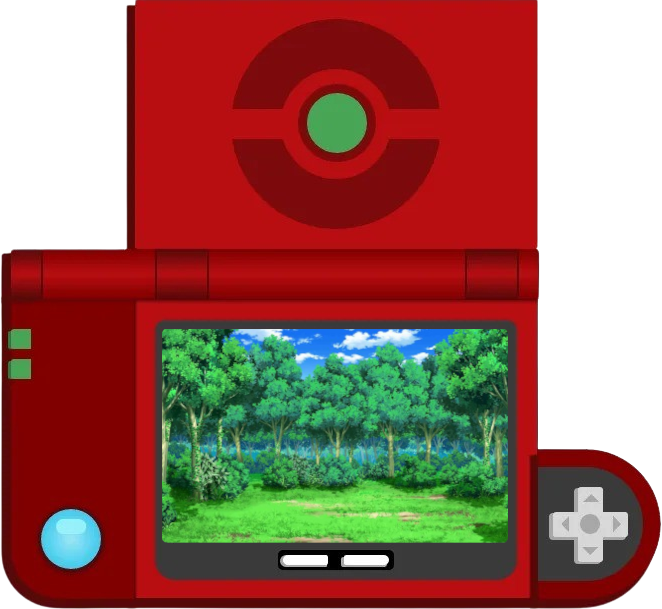
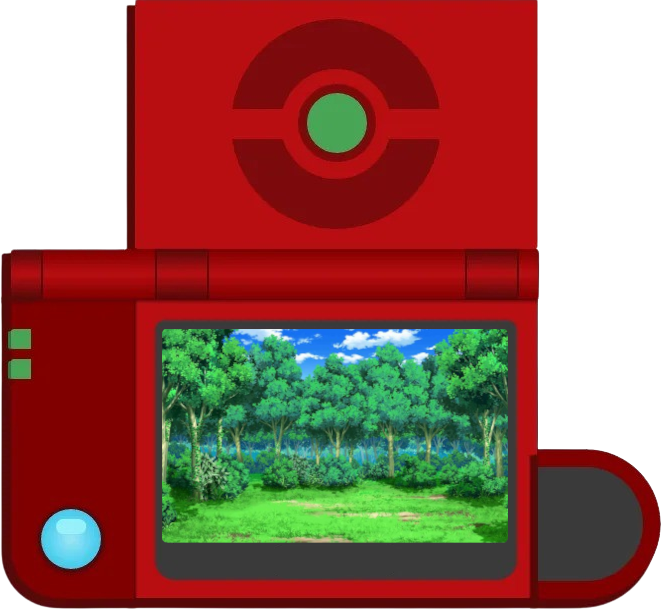
Alterando imagem da dex

Changed region(s): [[0.8157, 0.78, 0.9668, 0.936], [0.423, 0.9048, 0.6042, 0.936]]

diff --git a/pokemonDetalhes.html b/pokemonDetalhes.html
@@ -44,7 +44,7 @@
 
     <div class="container d-flex justify-content-center align-items-center">
 
-        <img class="poke-imagem poke__size img-fluid d-none d-md-block d-sm-none" src="./assets/img/pokedex-fundo.png" alt="Imagem Dex">
+        <img class="poke-imagem poke__size img-fluid d-none d-md-block d-sm-none" src="./assets/img/pokedex-fundo2.png" alt="Imagem Dex">
         <img class="poke-imagem img-fluid d-sm-block d-md-none" src="./assets/img/gameboydex1.png" alt="Imagem Dex mobile">
 
         <div class="row d-flex align-items-center justify-content-center">
